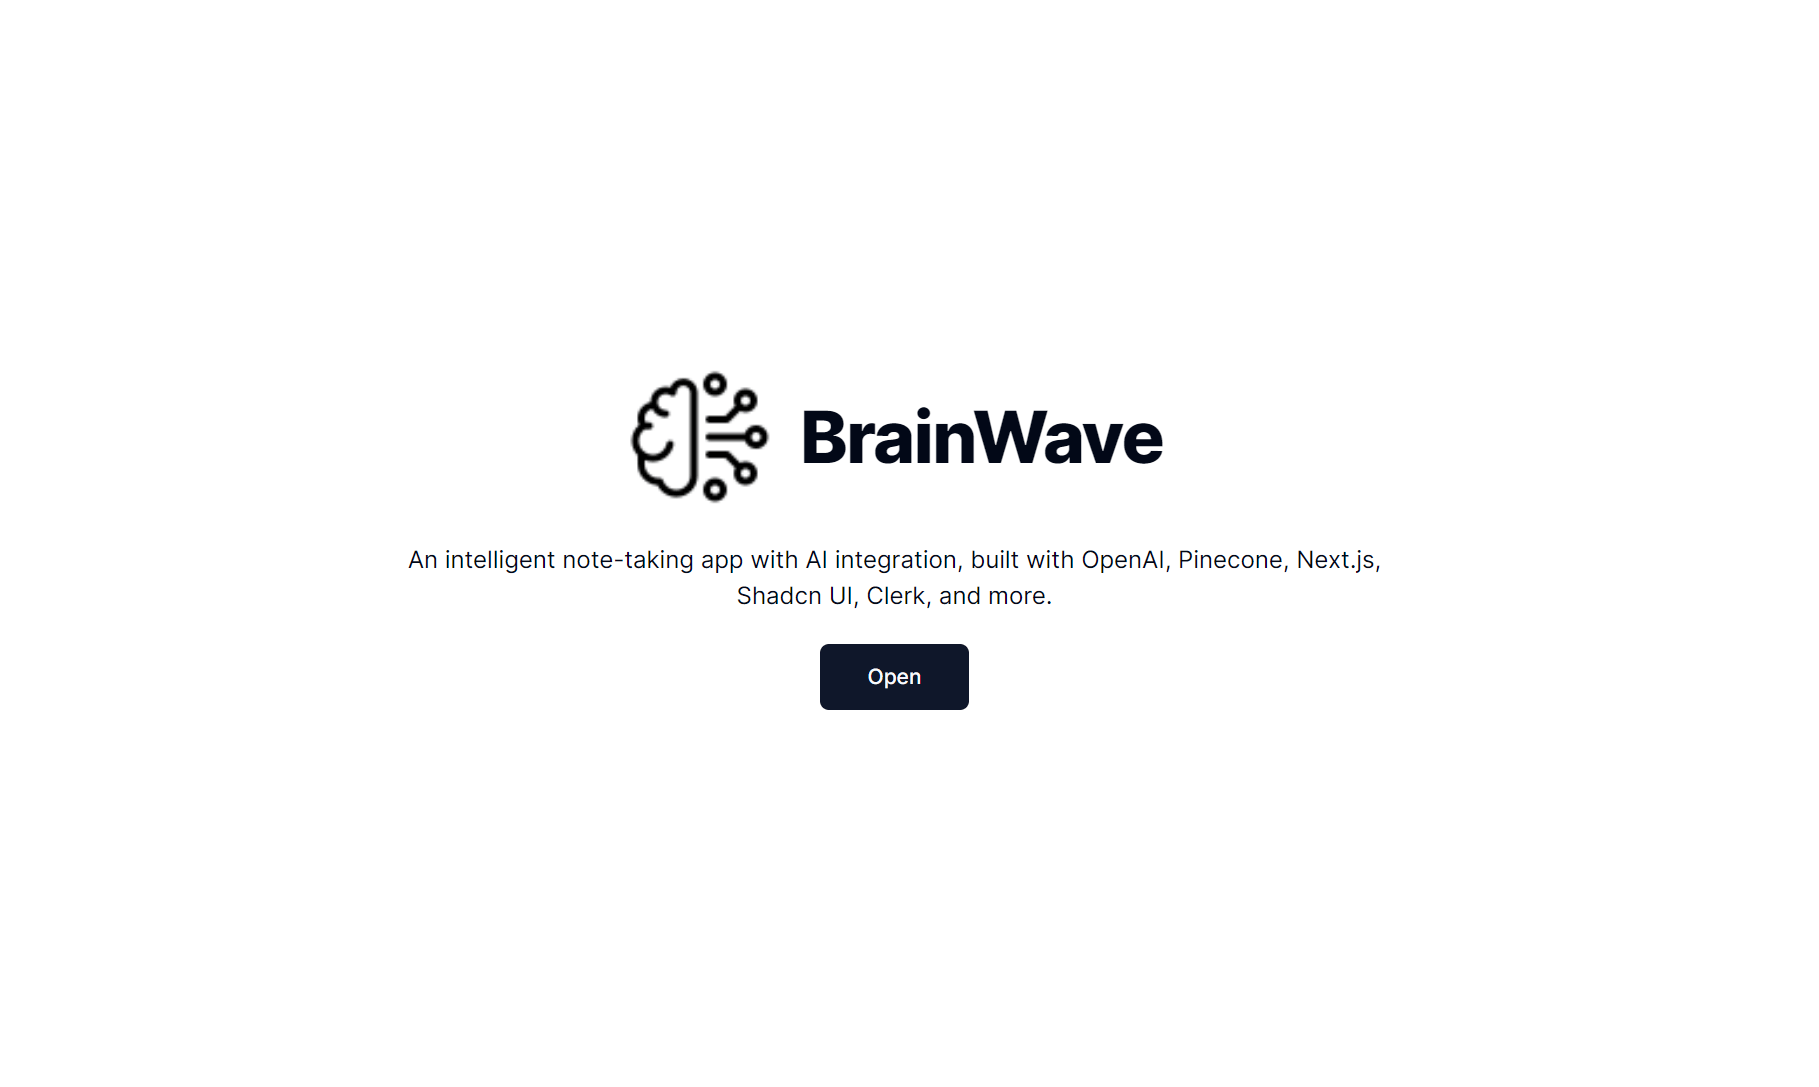
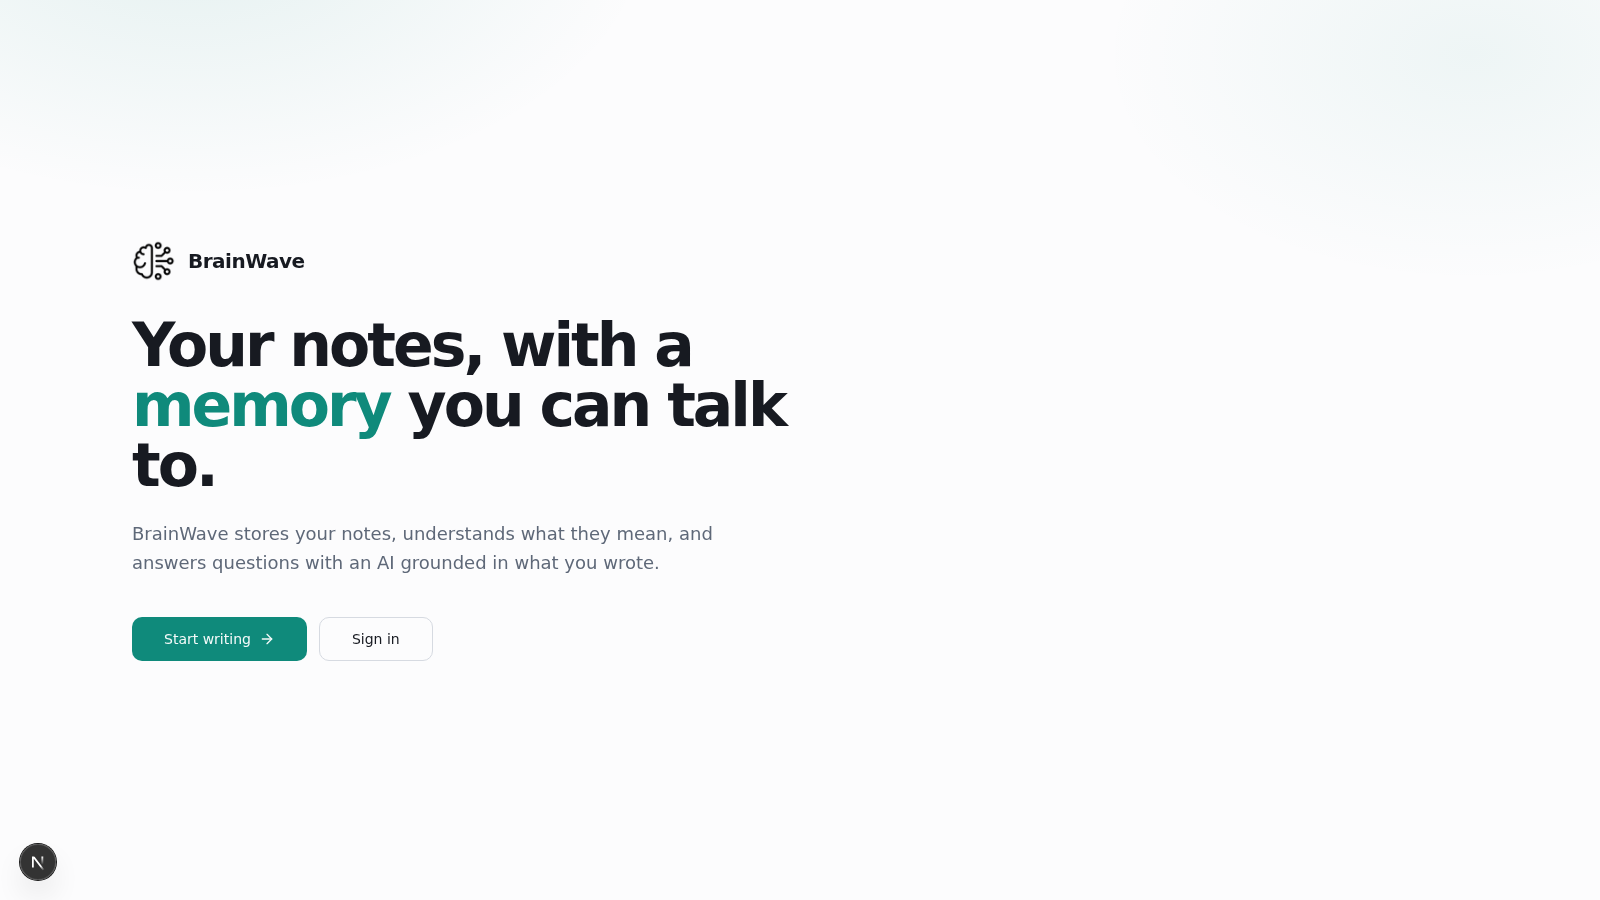
content: update BrainWave project with new tech stack and screenshots
Tech stack overhaul: replaced MongoDB+Pinecone+ChatGPT API with
SQLite/Turso, HuggingFace local embeddings, and Groq (free tier).

New cover image: BrainWave landing page hero (teal gradient, tagline).
New final product image: authenticated notes page showing 3 real
note cards with the AI Chat button — captured from the local dev
instance with real seeded content and auth bypassed for screenshots.

Content rewrite: summary, solution, process, and reflection updated
to reflect the modernized stack and current architecture.

diff --git a/src/content/projects/brainwave.md b/src/content/projects/brainwave.md
@@ -3,29 +3,30 @@ title: "BrainWave"
 slug: "brainwave"
 date: "2024-02"
 
-summary: "A note-taking app where you ask questions about your notes in plain language instead of guessing keywords."
+summary: "A note-taking app that answers questions about your notes using local semantic search and an AI chat interface."
 role: "Developer"
 technologies:
   [
     "Next.js",
-    "Typescript",
+    "TypeScript",
     "TailwindCSS",
+    "shadcn/ui",
     "Prisma",
-    "MongoDB",
-    "Vercel AI",
-    "ChatGPT API",
-    "Pinecone",
+    "SQLite (Turso/libSQL)",
+    "HuggingFace Transformers",
+    "Groq (GPT OSS-20B)",
+    "Vercel AI SDK",
   ]
-tools: ["GitHub", "Clerk", "Shadcn UI"]
+tools: ["GitHub", "Clerk v6", "Radix UI"]
 
 cover: "../../assets/images/projects/brainwave/cover_brainwave.min.png"
-final: "../../assets/images/projects/brainwave/final_brainwave.gif"
+final: "../../assets/images/projects/brainwave/final_brainwave.png"
 
 background: "I kept losing things in my own notes. Keyword search only works if you remember the exact word you wrote, and six months later you never do. I wanted to see if I could just ask my notes a question and get an answer back."
-solution: "It looks like a chat window. Underneath, notes are embedded into a Pinecone index at save time, so queries match by meaning, not exact characters. Next.js on the frontend, Clerk for auth so notes stay private to their owner, Prisma and MongoDB for storage."
-process: "I built plain note CRUD first, then spent most of the project on the retrieval side: getting embeddings generated reliably on note create/update, and wiring the chat assistant to pull from the index before answering. The trickiest part was making retrieval failures obvious instead of silently returning wrong answers."
+solution: "Notes are embedded locally via HuggingFace Transformers (bge-small-en-v1.5, 384-dim) at save time and stored in SQLite with cosine similarity queries — no external embedding API needed. Queries match by meaning, not exact characters. The chat model runs on Groq's free tier (gpt-oss-20b), streamed through the Vercel AI SDK. Clerk handles authentication so notes stay private to their owner. Everything runs on SQLite via Prisma + Turso/libSQL."
+process: "I built plain note CRUD first, then spent most of the project on the retrieval side: getting embeddings generated reliably on note create/update, and wiring the chat assistant to pull from the index before answering. The tricky parts were keeping the embedding pipeline in sync with the database and making retrieval failures obvious instead of silently returning wrong answers."
 impact: "It works well enough that I stopped digging through old notes manually. It also taught me where semantic search breaks down. Short or ambiguous notes still return poor matches."
-reflection: "The hard part wasn't any single service, it was keeping the database, the embedding pipeline, and the index in sync without the whole thing becoming fragile. If I rebuilt it today I'd look harder at search accuracy tuning and handling much larger note collections."
+reflection: "The hard part wasn't any single service — it was keeping the database, the embedding pipeline, and the index in sync without the whole thing becoming fragile. The switch to local embeddings and SQLite removed two external API dependencies. If I rebuilt it today I'd look harder at search accuracy tuning and handling much larger note collections."
 links:
   live: ""
   source: "https://github.com/jdluu/BrainWave"
